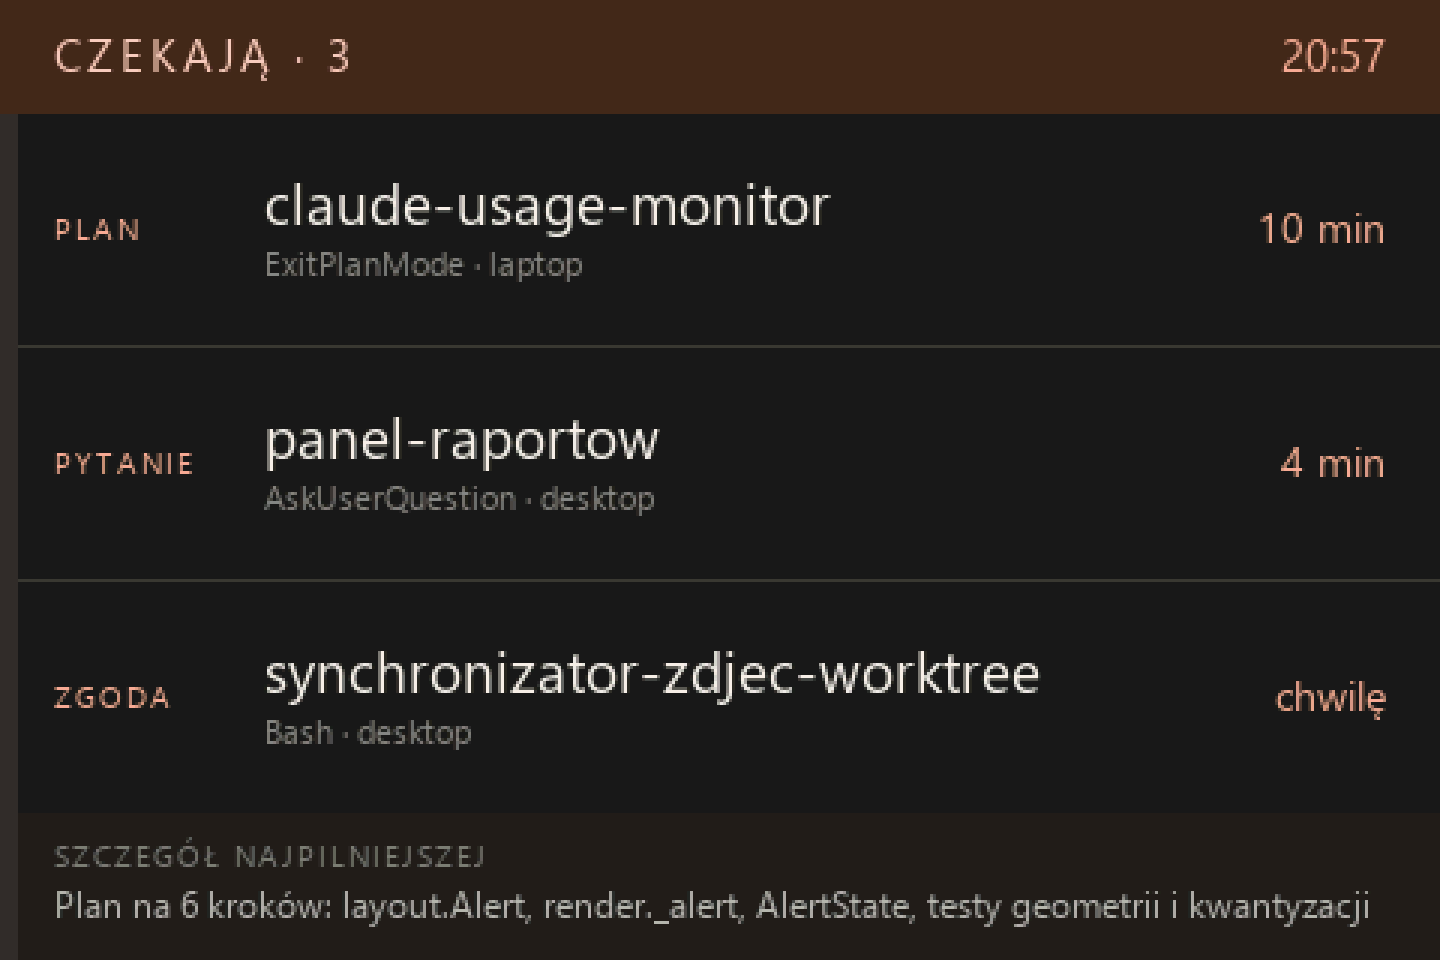
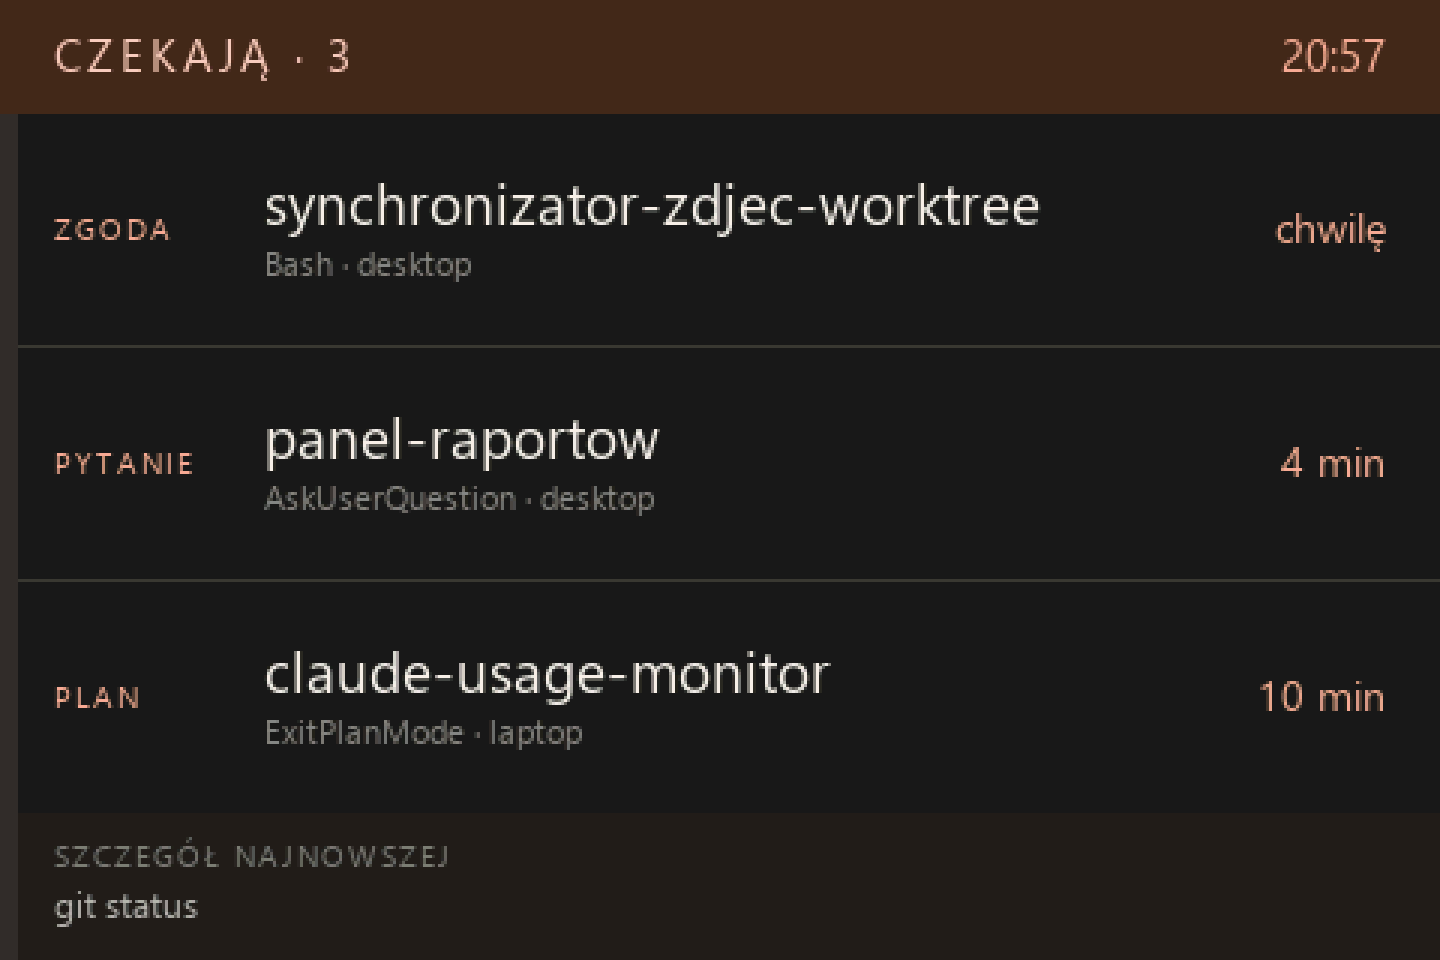
Panel: card rows go newest first, and the reason rank is gone
With the takeover window owned by the set, sorting by reason rank became
actively harmful: RANK put plan before question before permission, and
alert_state keeps only the first three rows, so three older plan blocks pushed
a freshly arrived permission request off the card entirely. Measured -- rows
were the three stale ones, the new block survived only as a name in the footer.
The screen was seized by an event it did not display, and the banner flashed
for it.

Rows now go newest first, entries without since last, ties broken by key for
determinism. The argument is that every block was already shown solo when it
arrived, because it opened its own window back then; when the card truncates to
three rows, the ones worth showing are the ones you have not seen yet.

RANK and Blocked.rank are deleted -- nothing else consumed them. The footer
label follows: SZCZEGOL NAJPILNIEJSZEJ becomes SZCZEGOL NAJNOWSZEJ, along with
the docstrings and docs that promised reason priority.

render-png.py sorted nothing, since it bypasses parse_frame, so the handout
images would have taught an order the panel no longer draws. It now sorts the
demo scene the same way, and karta-list/many/pair are regenerated.

diff --git a/panel/tests/test_alert.py b/panel/tests/test_alert.py
@@ -157,6 +157,7 @@ def test_swieza_blokada_wciaga_wypalona_na_ta_sama_karte():
     karta = a.screen().alert
     assert len(karta.rows) == 2 and karta.count == 2
     assert "2" in karta.title, "pasmo liczy obie, nie tylko swieza"
+    assert karta.rows[0].project == "nowa", "najmlodsza w pierwszym wierszu"
 
 
 def test_wypalony_zbior_gasnie_w_calosci():
@@ -537,7 +538,8 @@ def blokady(n):
 
 
 @pytest.mark.parametrize("ile,metoda", [
-    (1, "_alert_solo"), (2, "_alert_pair"), (3, "_alert_list"), (5, "_alert_many"),
+    (1, "_alert_solo"), (2, "_alert_pair"), (3, "_alert_list"),
+    (4, "_alert_many"), (5, "_alert_many"),
 ])
 def test_uklad_wybiera_liczba_blokad(ile, metoda, monkeypatch):
     """Prog jest przy trzech: do dwoch nazwa projektu zostaje bohaterem, od trzech
@@ -563,15 +565,29 @@ def test_lista_pokazuje_trzy_a_liczy_wszystkie():
 
 
 def test_pasmo_podaje_najstarsze_czekanie_a_nie_naglowek():
-    """Kolejnosc sortuje najpierw po POWODZIE, wiec pierwszy wiersz nie musi byc
-    najstarszy — a godzina w pasmie ma byc poczatkiem najstarszego czekania."""
+    """Pierwszy wiersz to NAJMLODSZA blokada, a godzina w pasmie to poczatek
+    NAJSTARSZEGO czekania na ekranie. To dwie rozne rzeczy i musza sie rozjezdzac."""
     now_ms = fmt.ms(fmt.parse_utc(NOW))
     stan = render.alert_state(status.parse_frame(ramka(
         wpis(key="plan", reason="plan", since="2026-08-05T21:06:00Z"),
         wpis(key="zgoda", reason="permission", since="2026-08-05T21:01:00Z"),
     )), now_ms)
-    assert stan.rows[0].short == "plan", "plan idzie pierwszy"
+    assert stan.rows[0].short == "plan", "najmlodsza idzie pierwsza"
     assert stan.at == fmt.hm(fmt.parse_utc("2026-08-05T21:01:00Z"))
+
+
+def test_swieza_blokada_jest_widoczna_mimo_trzech_starszych():
+    """Regresja: przy oknie nalezacym do ZBIORU ranga powodu wypychala z wierszy
+    wlasnie te blokade, ktora przejela ekran — zostawala sama nazwa w stopce."""
+    now_ms = fmt.ms(fmt.parse_utc(NOW))
+    stan = render.alert_state(status.parse_frame(ramka(
+        wpis(key="s1", reason="plan", project="stary-1", since="2026-08-05T19:07:00Z"),
+        wpis(key="s2", reason="plan", project="stary-2", since="2026-08-05T19:10:00Z"),
+        wpis(key="s3", reason="question", project="stary-3", since="2026-08-05T19:13:00Z"),
+        wpis(key="f", reason="permission", project="SWIEZY", since="2026-08-05T21:06:50Z"),
+    )), now_ms)
+    assert stan.rows[0].project == "SWIEZY", "blokada, ktora przejela ekran, ma byc widoczna"
+    assert stan.rest == ["stary-1"], "do stopki schodzi najstarsza, nie najnowsza"
 
 
 def test_kafel_szczegolu_nie_wchodzi_na_listwe_trybu():

diff --git a/panel/panel/status.py b/panel/panel/status.py
@@ -24,11 +24,6 @@ SHORT = {
 
 SHORT_UNKNOWN = "czeka"
 
-# Ktory powod idzie w naglowek karty, gdy blokad jest kilka. Plan przed pytaniem, pytanie
-# przed zgoda: im wiekszy kawalek pracy stoi za blokada, tym drozej kosztuje kazda minuta
-# czekania. Remis rozstrzyga NAJSTARSZE `since`.
-RANK = {"plan": 0, "question": 1, "permission": 2}
-
 UNKNOWN = "CLAUDE CZEKA"
 
 
@@ -76,10 +71,6 @@ class Blocked:
         bits = [b for b in (self.permission_mode, self.agent_type) if b]
         return " · ".join(bits)
 
-    @property
-    def rank(self):
-        return RANK.get(self.reason, len(RANK))
-
     def __repr__(self):
         return "<Blocked %s %s %s>" % (self.reason, self.project, self.machine)
 
@@ -113,9 +104,16 @@ def parse_entry(raw):
 def parse_frame(payload):
     """Ladunek ramki `alert` -> lista Blocked, uporzadkowana do wyswietlenia.
 
-    Kolejnosc: najpierw priorytet powodu, potem najstarsze `since`. Wpis bez stempla
-    laduje na koncu swojej grupy — brak wiedzy o wieku nie moze udawac swiezosci ani
-    starosci.
+    Kolejnosc: NAJMLODSZE PIERWSZE. Powod nie ma na nia wplywu — kazda blokada byla
+    juz pokazana solo, gdy wchodzila (otworzyla wtedy wlasne okno przejecia), wiec
+    przy obcieciu karty do trzech wierszy warte pokazania sa te, ktorych jeszcze nie
+    widziales. Wczesniej rzadzila ranga powodu (plan, pytanie, zgoda) i to bylo
+    nieszkodliwe tylko dopoki wszystko na karcie mialo ponizej pieciu minut; odkad
+    okno nalezy do ZBIORU, ranga wypychala z wierszy wlasnie te blokade, ktora
+    przejela ekran.
+
+    Wpis bez stempla laduje na koncu — brak wiedzy o wieku nie moze udawac swiezosci
+    ani starosci. Remis rozstrzyga `key`, zeby kolejnosc byla deterministyczna.
     """
     if not isinstance(payload, dict):
         return []
@@ -130,8 +128,9 @@ def parse_frame(payload):
             continue
         seen.add(entry.key)
         out.append(entry)
-    out.sort(key=lambda b: (b.rank, b.since is None,
-                            b.since.timestamp() if b.since else 0.0))
+    out.sort(key=lambda b: (b.since is None,
+                            -b.since.timestamp() if b.since else 0.0,
+                            b.key))
     return out
 
 

diff --git a/panel/panel/render.py b/panel/panel/render.py
@@ -135,8 +135,8 @@ def alert_state(blocked, now_ms=0.0, footer=None, flood=False):
         mode=b.mode_label,
     ) for b in shown]
     # Godzina w pasmie to poczatek NAJSTARSZEGO czekania na ekranie, nie `since`
-    # naglowka: kolejnosc sortuje najpierw po powodzie, wiec pierwszy wpis nie musi
-    # byc najstarszy.
+    # naglowka: wiersze ida od najmlodszej, wiec pierwszy wpis jest z zalozenia
+    # najnowszy — a pasmo ma mowic, jak dlugo to wszystko juz stoi.
     stamps = [b.since for b in shown if b.since is not None]
     return AlertState(
         title=alert_title(blocked),
@@ -410,7 +410,7 @@ class Renderer:
                    fill=theme.TEXT_70, anchor="ls")
 
     def _alert_list(self, d, a):
-        """1c — trzy blokady w liscie, szczegol najpilniejszej w stopce."""
+        """1c — trzy blokady w liscie, szczegol najnowszej w stopce."""
         L_ = self.layout.alert_list
         detail = a.rows[0].detail
         rects = L_.rows(footer=bool(detail))
@@ -424,7 +424,7 @@ class Renderer:
         self._alert_banner(d, a, L_.x0, L_.x1)
 
     def _alert_many(self, d, a):
-        """1d — trzy najpilniejsze, reszta zliczona w stopce."""
+        """1d — trzy najnowsze, reszta zliczona w stopce."""
         L_ = self.layout.alert_many
         rects = L_.rows(footer=True)
         for (top, bottom), row in zip(rects, a.rows):
@@ -487,7 +487,7 @@ class Renderer:
                              named=False)
 
     def _alert_footer(self, d, L_, label, text):
-        """Stopka: jedna linia o najpilniejszej blokadzie albo licznik reszty."""
+        """Stopka: jedna linia o najnowszej blokadzie albo licznik reszty."""
         x0, y0, x1, y1 = L_.footer
         draw.fill_rect(d, L_.footer, theme.SUNKEN)
         f_label = draw.font(L_.F_FOOT_LABEL)

diff --git a/panel/tests/test_status.py b/panel/tests/test_status.py
@@ -58,14 +58,30 @@ def test_smieci_zamiast_ramki():
         assert status.parse_frame(junk) == []
 
 
-def test_kolejnosc_plan_pytanie_zgoda_potem_najstarsze():
+def test_kolejnosc_od_najmlodszej_bez_wzgledu_na_powod():
+    """Powod nie ma wplywu na kolejnosc — decyduje sam wiek.
+
+    Karta obcina sie do trzech wierszy, a kazda blokada byla juz pokazana solo, gdy
+    wchodzila. Warte pokazania sa wiec te, ktorych jeszcze nie widziales. Dawna ranga
+    (plan, pytanie, zgoda) wypychala z wierszy blokade, ktora wlasnie przejela ekran.
+    """
     out = status.parse_frame(frame(
         entry(key="perm-stary", reason="permission", since="2026-08-05T20:00:00Z"),
         entry(key="pyt", reason="question", since="2026-08-05T21:00:00Z"),
         entry(key="plan", reason="plan", since="2026-08-05T21:06:00Z"),
         entry(key="perm-nowy", reason="permission", since="2026-08-05T21:05:00Z"),
     ))
-    assert [b.key for b in out] == ["plan", "pyt", "perm-stary", "perm-nowy"]
+    assert [b.key for b in out] == ["plan", "perm-nowy", "pyt", "perm-stary"]
+
+
+def test_wpis_bez_stempla_laduje_na_koncu():
+    """Brak wiedzy o wieku nie moze udawac ani swiezosci, ani starosci."""
+    out = status.parse_frame(frame(
+        entry(key="bez", reason="plan", since=None),
+        entry(key="stary", reason="permission", since="2026-08-05T20:00:00Z"),
+        entry(key="nowy", reason="permission", since="2026-08-05T21:05:00Z"),
+    ))
+    assert [b.key for b in out] == ["nowy", "stary", "bez"]
 
 
 def test_duplikat_klucza_liczy_sie_raz():

diff --git a/panel/panel/layout.py b/panel/panel/layout.py
@@ -200,7 +200,7 @@ class AlertPair:
 class AlertList:
     """Trzy blokady — trzy rowne wiersze. Prog jest wlasnie tutaj: trzy nazwy
     projektow w 34 px nie istnieja, wiec nazwa schodzi do 19 px, a powod przenosi sie
-    do stalej kolumny po lewej. Szczegol NAJPILNIEJSZEJ ladauje w stopce — jeden,
+    do stalej kolumny po lewej. Szczegol NAJNOWSZEJ ladauje w stopce — jeden,
     bo trzy nie zmieszcza sie w zadnym czytelnym stopniu."""
 
     ROWS = 3
@@ -227,7 +227,7 @@ class AlertList:
     FOOT_LABEL_BASE = 18
     FOOT_TEXT_BASE = 35
 
-    FOOT_LABEL = "SZCZEGÓŁ NAJPILNIEJSZEJ"
+    FOOT_LABEL = "SZCZEGÓŁ NAJNOWSZEJ"
 
     def __init__(self, width, height):
         self.width = width

diff --git a/panel/tools/render-png.py b/panel/tools/render-png.py
@@ -54,6 +54,11 @@ def alert_scene(kind, now_ms, flood=False):
         items = [blocked(**cum), blocked(**kb), blocked(**gps),
                  blocked("d", "permission", "cms-migracja", "Edit", "laptop", 150),
                  blocked("e", "question", "notes-sync", "AskUserQuestion", "desktop", 98)]
+    # Ta sama kolejnosc co w produkcji (`status.parse_frame`): od najmlodszej. Scena
+    # omija parser, wiec bez tego PNG-i uczylyby porzadku, ktorego panel nie rysuje.
+    items.sort(key=lambda b: (b.since is None,
+                              -b.since.timestamp() if b.since else 0.0,
+                              b.key))
     return render.alert_state(items, now_ms, flood=flood)
 
 

diff --git a/panel/panel/theme.py b/panel/panel/theme.py
@@ -62,7 +62,7 @@ GHOST = mix(TEXT, 45)       # kreska ostatniego pomiaru
 # (5, 4, 4), czyli po kwantyzacji 5/6/5 slychac ja na kanale zielonym.
 TEXT_78_SURFACE = mix(TEXT, 78, SURFACE)    # tresc w kaflu `Szczegół`
 TEXT_45_SURFACE = mix(TEXT, 45, SURFACE)    # etykieta w tym kaflu
-TEXT_72_SUNKEN = mix(TEXT, 72, SUNKEN)      # szczegol najpilniejszej w stopce listy
+TEXT_72_SUNKEN = mix(TEXT, 72, SUNKEN)      # szczegol najnowszej w stopce listy
 TEXT_70_SUNKEN = mix(TEXT, 70, SUNKEN)      # wartosc w listwie `Tryb`
 TEXT_62_SUNKEN = mix(TEXT, 62, SUNKEN)      # nazwy reszty w stopce ukladu 1d
 TEXT_45_SUNKEN = mix(TEXT, 45, SUNKEN)      # etykiety w listwie i w stopce

diff --git a/panel/panel/app.py b/panel/panel/app.py
@@ -161,7 +161,7 @@ class App:
 
         Nie sam zbior indeksow, bo pas pisze przy nazwie planu, NA CO czeka. Przy kilku
         blokadach na jednym koncie zostaje pierwsza — kolejnosc ustala `status.parse_frame`,
-        wiec pierwsza jest tez najpilniejsza.
+        wiec pierwsza jest tez najnowsza.
 
         Alert bez dopasowania do zadnego skonfigurowanego konta laduje na pasie GORNYM.
         Regula jest prosta i celowo taka zostaje: statyczne mapowanie maszyna -> pas

diff --git a/docs/PANEL-ALERT-HANDOUT.md b/docs/PANEL-ALERT-HANDOUT.md
@@ -12,7 +12,7 @@ i przepuszczone przez jego własną kwantyzację, czyli **dokładnie to, co poka
 |---|---|
 | [`karta-solo.png`](handout/karta-solo.png) | jedna blokada — nazwa projektu bohaterem, kafel `Szczegół`, listwa `Tryb` |
 | [`karta-pair.png`](handout/karta-pair.png) | dwie blokady — dwie równe połowy po 140 px |
-| [`karta-list.png`](handout/karta-list.png) | trzy blokady — lista 3 × 77 px, szczegół najpilniejszej w stopce |
+| [`karta-list.png`](handout/karta-list.png) | trzy blokady — lista 3 × 77 px, szczegół najnowszej w stopce |
 | [`karta-many.png`](handout/karta-many.png) | pięć blokad — trzy wiersze i licznik reszty |
 | [`karta-zalana.png`](handout/karta-zalana.png) | klatka **pełna** warstwy ruchu: pasmo w akcencie plus rail 6 px |
 | [`pasy-znacznik-gorny.png`](handout/pasy-znacznik-gorny.png) | stan po zwinięciu — pasek 4 px przy koncie górnym |
@@ -90,13 +90,18 @@ jak wejść na ekran — dwie blokady musiałyby zacząć się w tym samym pięc
 |---|---|---|
 | 1 | `AlertSolo` | nazwa 34 px (26 px, gdy nie wchodzi), narzędzie i maszyna, „czeka N", kafel `Szczegół` do dwóch linii, listwa `Tryb` |
 | 2 | `AlertPair` | dwie równe połowy, nazwa 30 px, szczegół skrócony do jednej linii, bez listwy |
-| 3 | `AlertList` | powód w stałej kolumnie 58 px, nazwa 19 px, czas do prawej, szczegół najpilniejszej w stopce |
-| 4+ | `AlertMany` | trzy najpilniejsze z nazwą 17 px i samą maszyną, reszta zliczona w stopce („+2 WIĘCEJ" i nazwy) |
+| 3 | `AlertList` | powód w stałej kolumnie 58 px, nazwa 19 px, czas do prawej, szczegół najnowszej w stopce |
+| 4+ | `AlertMany` | trzy najnowsze z nazwą 17 px i samą maszyną, reszta zliczona w stopce („+2 WIĘCEJ" i nazwy) |
 
-Kolejność zawsze z `panel/panel/status.py`: `plan`, potem `question`, potem `permission`,
-a w remisie najstarsze `since`. **Godzina w pasmie to początek najstarszego czekania na
-ekranie**, nie `since` nagłówka — sortowanie idzie po powodzie, więc pierwszy wiersz nie musi
-być najstarszy.
+Kolejność zawsze z `panel/panel/status.py`: **od najmłodszej**, wpis bez `since` na końcu.
+Powód na nią nie wpływa. Wcześniej rządziła ranga (`plan`, `question`, `permission`) i było
+to nieszkodliwe tylko dopóki wszystko na karcie miało poniżej pięciu minut; odkąd okno należy
+do zbioru, ranga wypychała z wierszy właśnie tę blokadę, która przejęła ekran. Uzasadnienie
+nowej kolejności: **każda blokada była już pokazana solo, gdy wchodziła** — przy obcięciu do
+trzech wierszy warte pokazania są te, których jeszcze nie widziałeś.
+**Godzina w pasmie to początek najstarszego czekania na
+ekranie**, nie `since` nagłówka — wiersze idą od najmłodszej, więc pierwszy z nich jest
+z założenia najnowszy, a pasmo mówi, jak długo to wszystko już stoi.
 
 Pasmo przy wielu blokadach pisze `CZEKAJĄ · 3`, a nie „3 czekają": przy pięciu ta druga forma
 jest błędem („5 czekają"), a gołe „czekają" bez związanego liczebnika jest poprawne dla każdej
@@ -113,7 +118,7 @@ Pełny kontrakt w [`API.md` § 3.2](API.md). Wszystkie są używane:
 | `tool` | wiersz pod nazwą (nie w układzie 4+, gdzie zostaje sama maszyna) |
 | `machine` | tam samo; sesja może chodzić zdalnie, to mówi, gdzie iść |
 | `detail` | kafel `Szczegół` (2 linie), jedna linia w układzie 2, stopka w układzie 3 |
-| `since` | „czeka N", godzina w pasmie, oraz otwarcie okna dla zbioru |
+| `since` | „czeka N", godzina w pasmie, kolejność wierszy, oraz otwarcie okna dla zbioru |
 | `accountUuid` | przy którym pasie stanie znacznik po zwinięciu |
 | `agentType`, `permissionMode` | listwa `Tryb` — odpowiedź na „czemu on w ogóle pyta" |
 

diff --git a/panel/README.md b/panel/README.md
@@ -207,7 +207,7 @@ Prezentacja jest dwustopniowa i to jest decyzja, nie etap:
    odpowiesz, i zużycie jest przez ten czas niewidoczne). Układ wybiera **liczba blokad
    czekających**: jedna — nazwa projektu bohaterem, kafel `Szczegół` i listwa `Tryb`;
    dwie — dwie równe połowy; trzy — lista z powodem w stałej kolumnie; cztery i więcej —
-   trzy najpilniejsze plus licznik reszty.
+   trzy najnowsze plus licznik reszty.
 
    Przez `alert_flash_sec` karta **miga**, czyli podmienia klatkę pustą na **zalaną
    akcentem**: pasmo i rail 6 px na lewej krawędzi przechodzą na `ACCENT`, napisy
@@ -240,8 +240,11 @@ układy z czterech były martwe: dwie blokady musiałyby zacząć się w tym sam
 pięciominutowym oknie, a przy pracy sekwencyjnej to się nie zdarza. Czasu karty na ekranie
 to nie wydłuża — predykat „karta stoi" jest ten sam, zmienia się jej zawartość.
 
-Po restarcie panelu obowiązuje to samo w drugą stronę: sam restart karty nie wskrzesza,
-ale pierwsza świeża blokada wciągnie na nią także wpisy sprzed godzin.
+Wiersze idą **od najmłodszej**; powód nie ma na to wpływu, a wpis bez `since` ląduje na
+końcu. Każda blokada była już pokazana solo, gdy wchodziła, więc przy obcięciu do trzech
+wierszy warte pokazania są te, których jeszcze nie widziałeś. Po restarcie panelu obowiązuje
+to samo w drugą stronę: sam restart karty nie wskrzesza, ale pierwsza świeża blokada wciągnie
+na nią także wpisy sprzed godzin.
 
 - **`blocked_debounce_sec` (2 s)** — ile blokada musi trwać, zanim karta wejdzie.
   Bez tego zgoda udzielona od razu dawałaby błysk pełnego ekranu.
@@ -262,8 +265,10 @@ z `oauthAccount.accountUuid` odczytanego na maszynie z sesją — zasada 7 proje
 Czas czekania jest **gruboziarnisty** („chwilę" / „4 min" / „1 h 05 min" / „2 d 3 h")
 i to nie jest kwestia gustu: AX206 nie umie wycinków, więc każda zmiana napisu to
 pełne 355 ms, a sekundy zamieniłyby ~2,5 % obciążenia USB w ~35 % na cały czas
-trwania karty. Żywego zegara na karcie nie ma — godzina w banerze to statyczny
-moment pojawienia się promptu.
+trwania karty. Żywego zegara na karcie nie ma — godzina w banerze to statyczny moment
+pojawienia się promptu, a dokładniej początek **najstarszego czekania na ekranie**.
+Że wiersze idą od najmłodszej, zwykle nie jest to moment tej blokady, która właśnie weszła:
+pasmo mówi, jak długo to wszystko już stoi, a pierwszy wiersz — co doszło ostatnio.
 
 Projekt karty i wszystkie cztery układy opisuje `docs/PANEL-ALERT-HANDOUT.md`,
 z obrazami przepuszczonymi przez kwantyzację panelu. Podgląd bez sprzętu:
